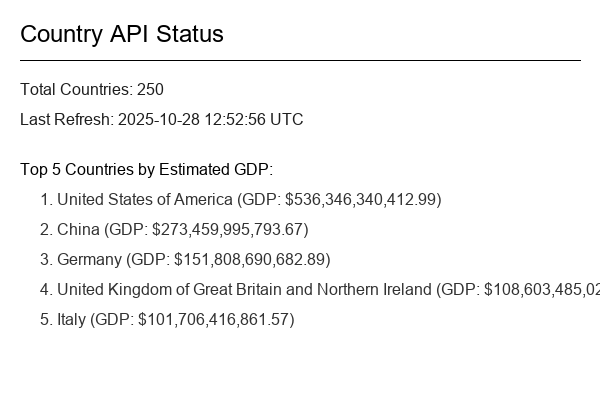
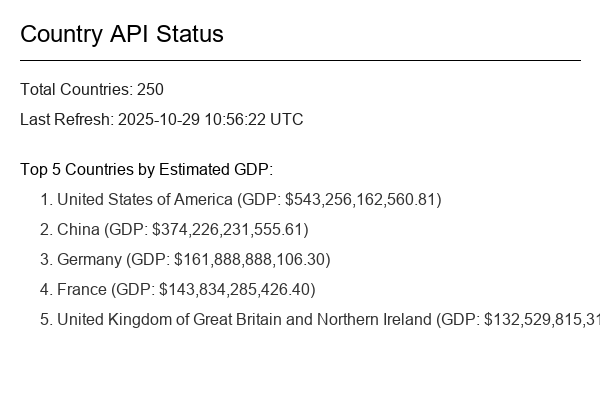
fixed the sort issue

diff --git a/currency/services.py b/currency/services.py
@@ -67,88 +67,109 @@ def _generate_summary_image(total_countries, top_5_countries, timestamp):
     print(f"Summary image saved to {IMAGE_PATH}")
 
 
-@background(schedule=1)
+@transaction.atomic
 def refresh_country_data():
-    """fills the db with data from country api"""
+    """
+    Main service function to fetch, process, and cache data in the DB.
+    This version is optimized for bulk operations to prevent timeouts.
+    """
+    print("Starting data sync (FAST, BULK mode)...")
     last_refresh_time = timezone.now()
-    
+
     # 1. Fetch data from external APIs
-    # If either fails, ExternalApiException will be raised and the
-    # transaction will be rolled back
     rates_data = _fetch_api_data(RATES_API, "ExchangeRates API")['rates']
     country_data = _fetch_api_data(COUNTRY_API, "RestCountries API")
 
     if not rates_data or not country_data:
         raise ExternalApiException(source_name="APIs returned empty data.")
 
-    processed_names = set()
+    # 2. Process data in memory
+    
+    # Get all existing countries from DB in ONE query
+    existing_countries = {c.name.lower(): c for c in Country.objects.all()}
+    
+    countries_to_create = []
+    countries_to_update = []
+    
+    # Fields that we will update in bulk
+    update_fields = [
+        'capital', 'region', 'population', 'flag_url',
+        'currency_code', 'exchange_rate', 'estimated_gdp'
+    ]
 
     for country in country_data:
         name = country.get('name')
         if not name:
             continue
         
-        processed_names.add(name.lower())
         population = country.get('population')
+        currency_list = country.get('currencies')
 
+        # --- Initialize defaults ---
         currency_code = None
         exchange_rate = None
         estimated_gdp = None
-        
 
-        currency_list = country.get('currencies')
-        
+        # --- Apply Currency Logic ---
         if currency_list and isinstance(currency_list, list) and len(currency_list) > 0:
-
-            first_currency = currency_list[0]
-            code = first_currency.get('code')
-            
+            code = currency_list[0].get('code')
             if code and code != '(none)':
                 currency_code = code
                 if currency_code in rates_data:
                     exchange_rate = Decimal(rates_data[currency_code])
-       
                     if population and exchange_rate > 0:
                         multiplier = Decimal(random.uniform(1000, 2000))
                         estimated_gdp = (Decimal(population) * multiplier) / exchange_rate
                 else:
-                    exchange_rate = None
-                    estimated_gdp = None
+                    estimated_gdp = None # Code not found, set GDP to null
         else:
-            currency_code = None
-            exchange_rate = None
-            estimated_gdp = 0
+            estimated_gdp = 0 # Empty currency array, set GDP to 0
 
-        defaults = {
-            'name': name,
-            'capital': country.get('capital'),
-            'region': country.get('region'),
-            'population': population,
-            'flag_url': country.get('flag'),
-            'currency_code': currency_code,
-            'exchange_rate': exchange_rate,
-            'estimated_gdp': estimated_gdp,
-        }
+        # --- Check if country exists and sort into lists ---
+        if name.lower() in existing_countries:
+            # Country exists, add to UPDATE list
+            obj = existing_countries[name.lower()]
+            obj.capital = country.get('capital')
+            obj.region = country.get('region')
+            obj.population = population
+            obj.flag_url = country.get('flag')
+            obj.currency_code = currency_code
+            obj.exchange_rate = exchange_rate
+            obj.estimated_gdp = estimated_gdp
+            countries_to_update.append(obj)
+        else:
+            # Country is new, add to CREATE list
+            countries_to_create.append(
+                Country(
+                    name=name,
+                    capital=country.get('capital'),
+                    region=country.get('region'),
+                    population=population,
+                    flag_url=country.get('flag'),
+                    currency_code=currency_code,
+                    exchange_rate=exchange_rate,
+                    estimated_gdp=estimated_gdp
+                )
+            )
 
-        Country.objects.update_or_create(
-            name__iexact=name,
-            defaults=defaults
-        )
+    # 3. Perform bulk database operations (2 queries total)
+    if countries_to_create:
+        Country.objects.bulk_create(countries_to_create)
+        print(f"Created {len(countries_to_create)} new countries.")
+        
+    if countries_to_update:
+        Country.objects.bulk_update(countries_to_update, update_fields)
+        print(f"Updated {len(countries_to_update)} existing countries.")
 
-    print(f"Processed {len(processed_names)} countries.")
-
-    # 3. Generate Summary Image
-    # This runs inside the transaction. If image gen fails,
-    # the entire DB sync is rolled back.
-    total_countries = Country.objects.count()
-    top_5_countries = Country.objects.order_by('-estimated_gdp').values('name', 'estimated_gdp')[:5]
-    
-    _generate_summary_image(total_countries, top_5_countries, last_refresh_time)
+    # 4. Generate Summary Image
+    total_countries = len(existing_countries) + len(countries_to_create)
+    top_5 = Country.objects.order_by('-estimated_gdp').values('name', 'estimated_gdp')[:5]
+    _generate_summary_image(total_countries, top_5, last_refresh_time)
 
     return {
         "status": "success",
-        "total_countries_processed": len(processed_names),
-        "total_in_database": total_countries,
+        "created": len(countries_to_create),
+        "updated": len(countries_to_update),
         "timestamp": last_refresh_time
     }
 

diff --git a/currency/views.py b/currency/views.py
@@ -7,7 +7,7 @@ from .filters import CountryFilter, CustomOrdering
 from .serializers import CountrySerializer
 from django_filters.rest_framework import DjangoFilterBackend
 from django.conf import settings
-from django.http import HttpResponse
+from django.http import HttpResponse, Http404
 import os
 from .exceptions import ExternalApiException
 
@@ -18,8 +18,8 @@ def refresh_countries(request):
     """
     print("refreshhh....")
     try:
-        refresh_country_data()
-        return Response({"message": "country refresh has started"}, status=status.HTTP_202_ACCEPTED)
+        result = refresh_country_data()
+        return Response(result, status=status.HTTP_200_OK)
     except ExternalApiException as e:
         return Response({"error": e.detail}, status=e.status_code)
     except Exception as e:
@@ -33,7 +33,11 @@ class AllCountries(generics.ListAPIView):
     filter_backends = [DjangoFilterBackend, CustomOrdering]
 
     ordering_fields = {
-        "gdp_desc": "-estimated_gdp"
+        "gdp_desc": "-estimated_gdp",
+        "gdp_asc": "estimated_gdp",
+        "name": "name",
+        "population": "population",
+        "region": "region"
     }
 
 class CountryDetail(generics.RetrieveDestroyAPIView):
@@ -41,6 +45,19 @@ class CountryDetail(generics.RetrieveDestroyAPIView):
     queryset = Country.objects.all()
     serializer_class = CountrySerializer
     lookup_field = "name"
+
+    def retrieve(self, request, *args, **kwargs):
+        try:
+            # Try to get the object as usual
+            instance = self.get_object()
+            serializer = self.get_serializer(instance)
+            return Response(serializer.data)
+        
+        except Http404:
+            return Response(
+                {"error": "Country not found"}, 
+                status=status.HTTP_404_NOT_FOUND
+            )
 
 @api_view(["GET"])
 def get_status(request):
@@ -56,7 +73,7 @@ def summary_image(request):
     
     if not os.path.exists(image_path):
         return Response(
-            {"error": "Summary image not found. Run /countries/refresh to generate it."}, 
+            {"error": "Summary image not found."}, 
             status=status.HTTP_404_NOT_FOUND
         )
     

diff --git a/currency/filters.py b/currency/filters.py
@@ -12,3 +12,22 @@ class CountryFilter(django_filters.FilterSet):
 
 class CustomOrdering(filters.OrderingFilter):
     ordering_param = "sort"
+
+    def get_ordering(self, request, queryset, view):
+        params = request.query_params.get(self.ordering_param, None)
+        if params is None:
+            return super().get_ordering(request, queryset, view)  # Fallback to default ordering if no param
+
+        ordering = []
+        for param in params.split(','):
+            param = param.strip()
+            if not param:
+                continue
+
+            if hasattr(view, 'ordering_fields') and param in view.ordering_fields:
+                ordering.append(view.ordering_fields[param])
+            else:
+                ordering.append(param)
+
+        # Remove empty and return
+        return [o for o in ordering if o]
